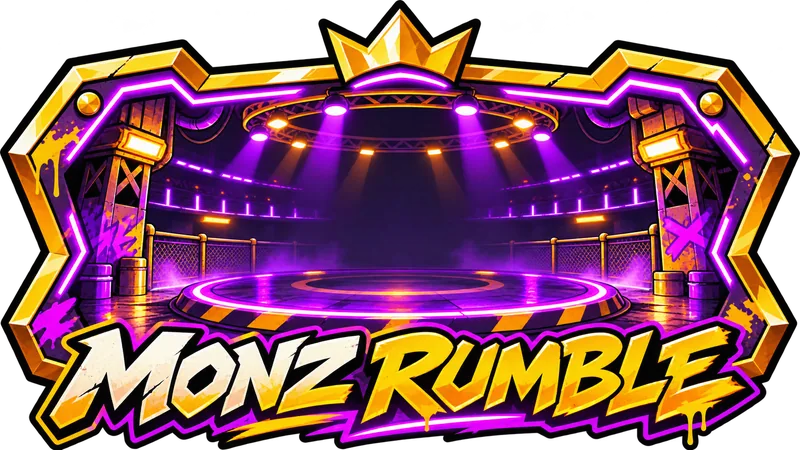
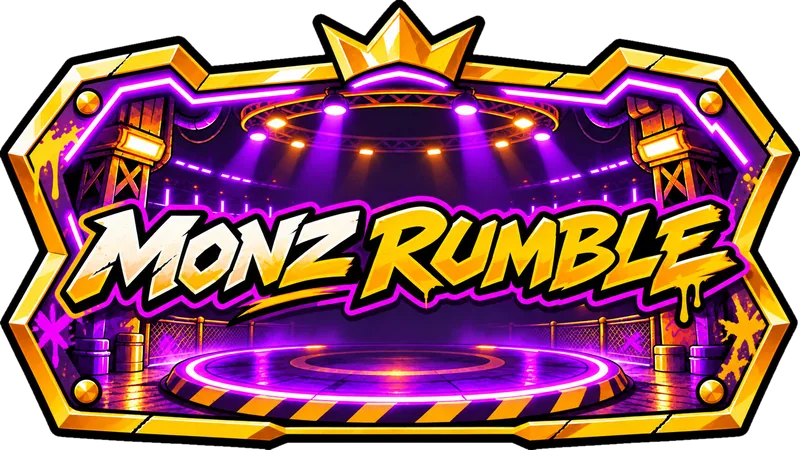
バトルセレクト: MONZ RUMBLE の看板を新しい絵に・「育てたモンズで戦う」
Claude-Session: https://claude.ai/code/session_01MXithgTc5umkveoyZShZHQ

diff --git a/src/scenes/BattleMenuScene.ts b/src/scenes/BattleMenuScene.ts
@@ -72,7 +72,28 @@ export class BattleMenuScene extends Phaser.Scene {
       const img = this.add.image(W / 2 + 900, ys[e.id], key).setInteractive({ useHandCursor: true });
       img.setScale(620 / img.width);
       const base = img.scale;
-      this.tweens.add({ targets: img, x: W / 2, duration: 420, delay: 100 + i * 90, ease: 'Back.easeOut' });
+      const moving: Phaser.GameObjects.GameObject[] = [img];
+      // 2026-11-07 企画者「MYTHCLASH みたいに MONZ RUMBLE の下に『育てたモンズで戦う』」→ 黒い帯に 白い文字
+      if (e.id === 'action') {
+        canvasTextureOnce(this, 'bm:sub:action', 520, 64, (ctx) => {
+          ctx.fillStyle = 'rgba(10,6,16,0.92)';
+          ctx.beginPath();
+          ctx.moveTo(18, 6);
+          ctx.lineTo(520, 0);
+          ctx.lineTo(502, 58);
+          ctx.lineTo(0, 64);
+          ctx.closePath();
+          ctx.fill();
+          ctx.font = `900 34px ${UI_FONT}`;
+          ctx.fillStyle = '#ffffff';
+          ctx.textAlign = 'center';
+          ctx.textBaseline = 'middle';
+          ctx.fillText('育てたモンズで戦う', 260, 33);
+        });
+        const sub = this.add.image(img.x, ys[e.id] + img.displayHeight * 0.23, 'bm:sub:action').setScale(0.72);
+        moving.push(sub);
+      }
+      this.tweens.add({ targets: moving, x: W / 2, duration: 420, delay: 100 + i * 90, ease: 'Back.easeOut' });
       img.on('pointerdown', () => {
         this.tweens.add({ targets: img, scale: base * 0.95, duration: 70, yoyo: true });
         this.go(e.scene, false);

diff --git a/docs/VISION.md b/docs/VISION.md
@@ -405,3 +405,4 @@
 - 2026-11-07：企画者「倒した時 倒れたは やめよ。KO で」→ たおした時の 大きな文字は「KO」だけに
 - 2026-11-07：企画者の バトルセレクト用 MONZ RUMBLE の 看板の絵（design/rumble_ui/bm_rumble_sign.png）→ 背景の絵が できたら 入れる
 - 2026-11-07：企画者の バトルセレクトの 新しい 背景（上 = MONZ RUMBLE・下 = MYTHCLASH の 雰囲気。design/battle_menu/battle_menu2_bg.png）→ 上に「BATTLE」の 文字、上半分に MONZ RUMBLE の 看板、下半分に MYTHCLASH の 看板【仮：前の 絵から 切り出したもの。新しい 看板が できたら 入れかえ】。前の 絵（battle_menu.webp）は 残す
+- 2026-11-07：企画者の 新しい MONZ RUMBLE の 看板（文字を 上・まん中寄りに。design/rumble_ui/bm_rumble_sign2.png。白い まわりは すかした）に 入れかえ。下に MYTHCLASH の 看板と 同じように 黒い帯で「育てたモンズで戦う」
